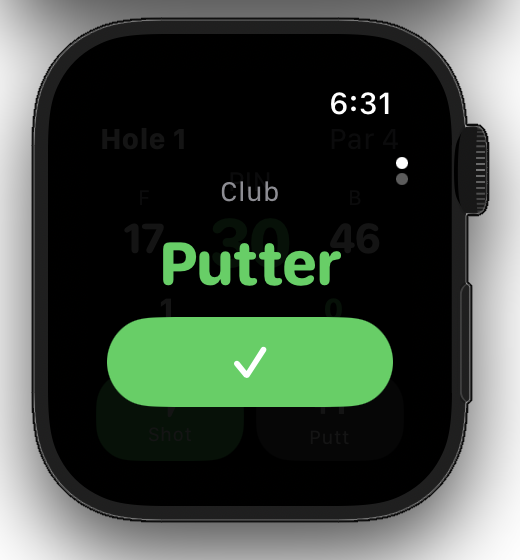
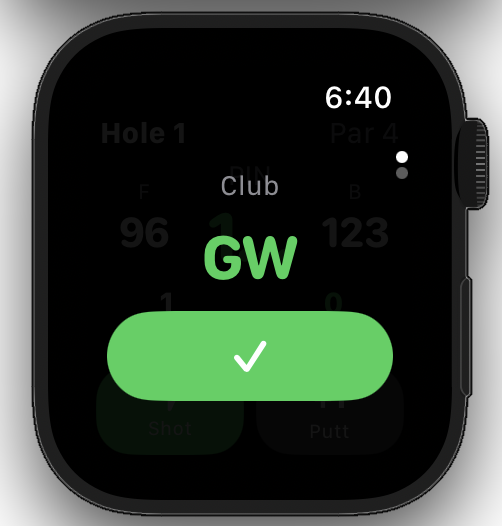
Fix: no putter in club selection.  show distance to green center

diff --git a/GoBirdie Watch App/WatchRoundView.swift b/GoBirdie Watch App/WatchRoundView.swift
@@ -102,30 +102,30 @@ private struct DistanceModeView: View {
 
     var body: some View {
         VStack(spacing: 3) {
-            HStack(spacing: 4) {
+            HStack(spacing: 2) {
                 VStack(spacing: 0) {
                     Text("F")
                         .font(.system(size: 11)).foregroundStyle(.secondary)
                     Text("\(session.frontYards ?? 0)")
-                        .font(.system(size: 22, weight: .bold, design: .rounded))
+                        .font(.system(size: 20, weight: .bold, design: .rounded))
                         .foregroundStyle(.white)
                 }
                 .frame(maxWidth: .infinity)
 
                 VStack(spacing: 0) {
                     Text("PIN")
-                        .font(.system(size: 14)).foregroundStyle(.secondary)
+                        .font(.system(size: 13)).foregroundStyle(.secondary)
                     Text("\(session.pinYards ?? 0)")
-                        .font(.system(size: 36, weight: .bold, design: .rounded))
+                        .font(.system(size: 32, weight: .bold, design: .rounded))
                         .foregroundStyle(.green)
                 }
-                .frame(maxWidth: .infinity)
+                .frame(maxWidth: .infinity, alignment: .center)
 
                 VStack(spacing: 0) {
                     Text("B")
                         .font(.system(size: 11)).foregroundStyle(.secondary)
                     Text("\(session.backYards ?? 0)")
-                        .font(.system(size: 22, weight: .bold, design: .rounded))
+                        .font(.system(size: 20, weight: .bold, design: .rounded))
                         .foregroundStyle(.white)
                 }
                 .frame(maxWidth: .infinity)

diff --git a/GoBirdie/Views/Round/HoleControlsView.swift b/GoBirdie/Views/Round/HoleControlsView.swift
@@ -118,7 +118,7 @@ struct HoleControlsView: View {
             (.iron4, 170), (.iron5, 160), (.iron6, 150),
             (.iron7, 140), (.iron8, 130), (.iron9, 120),
             (.pitchingWedge, 110), (.gapWedge, 95), (.sandWedge, 80),
-            (.lobWedge, 60), (.putter, 0),
+            (.lobWedge, 60),
         ]
         for (club, minDist) in table {
             if enabledClubs.contains(club) && y >= minDist {

diff --git a/GoBirdie Watch App/WatchRoundSession.swift b/GoBirdie Watch App/WatchRoundSession.swift
@@ -228,7 +228,7 @@ final class WatchRoundSession: NSObject, ObservableObject {
             ("4i", 170), ("5i", 160), ("6i", 150),
             ("7i", 140), ("8i", 130), ("9i", 120),
             ("pw", 110), ("gw", 95), ("sw", 80),
-            ("lw", 60), ("putter", 0),
+            ("lw", 60),
         ]
         for (club, minDist) in table {
             if clubBag.contains(club) && y >= minDist {
